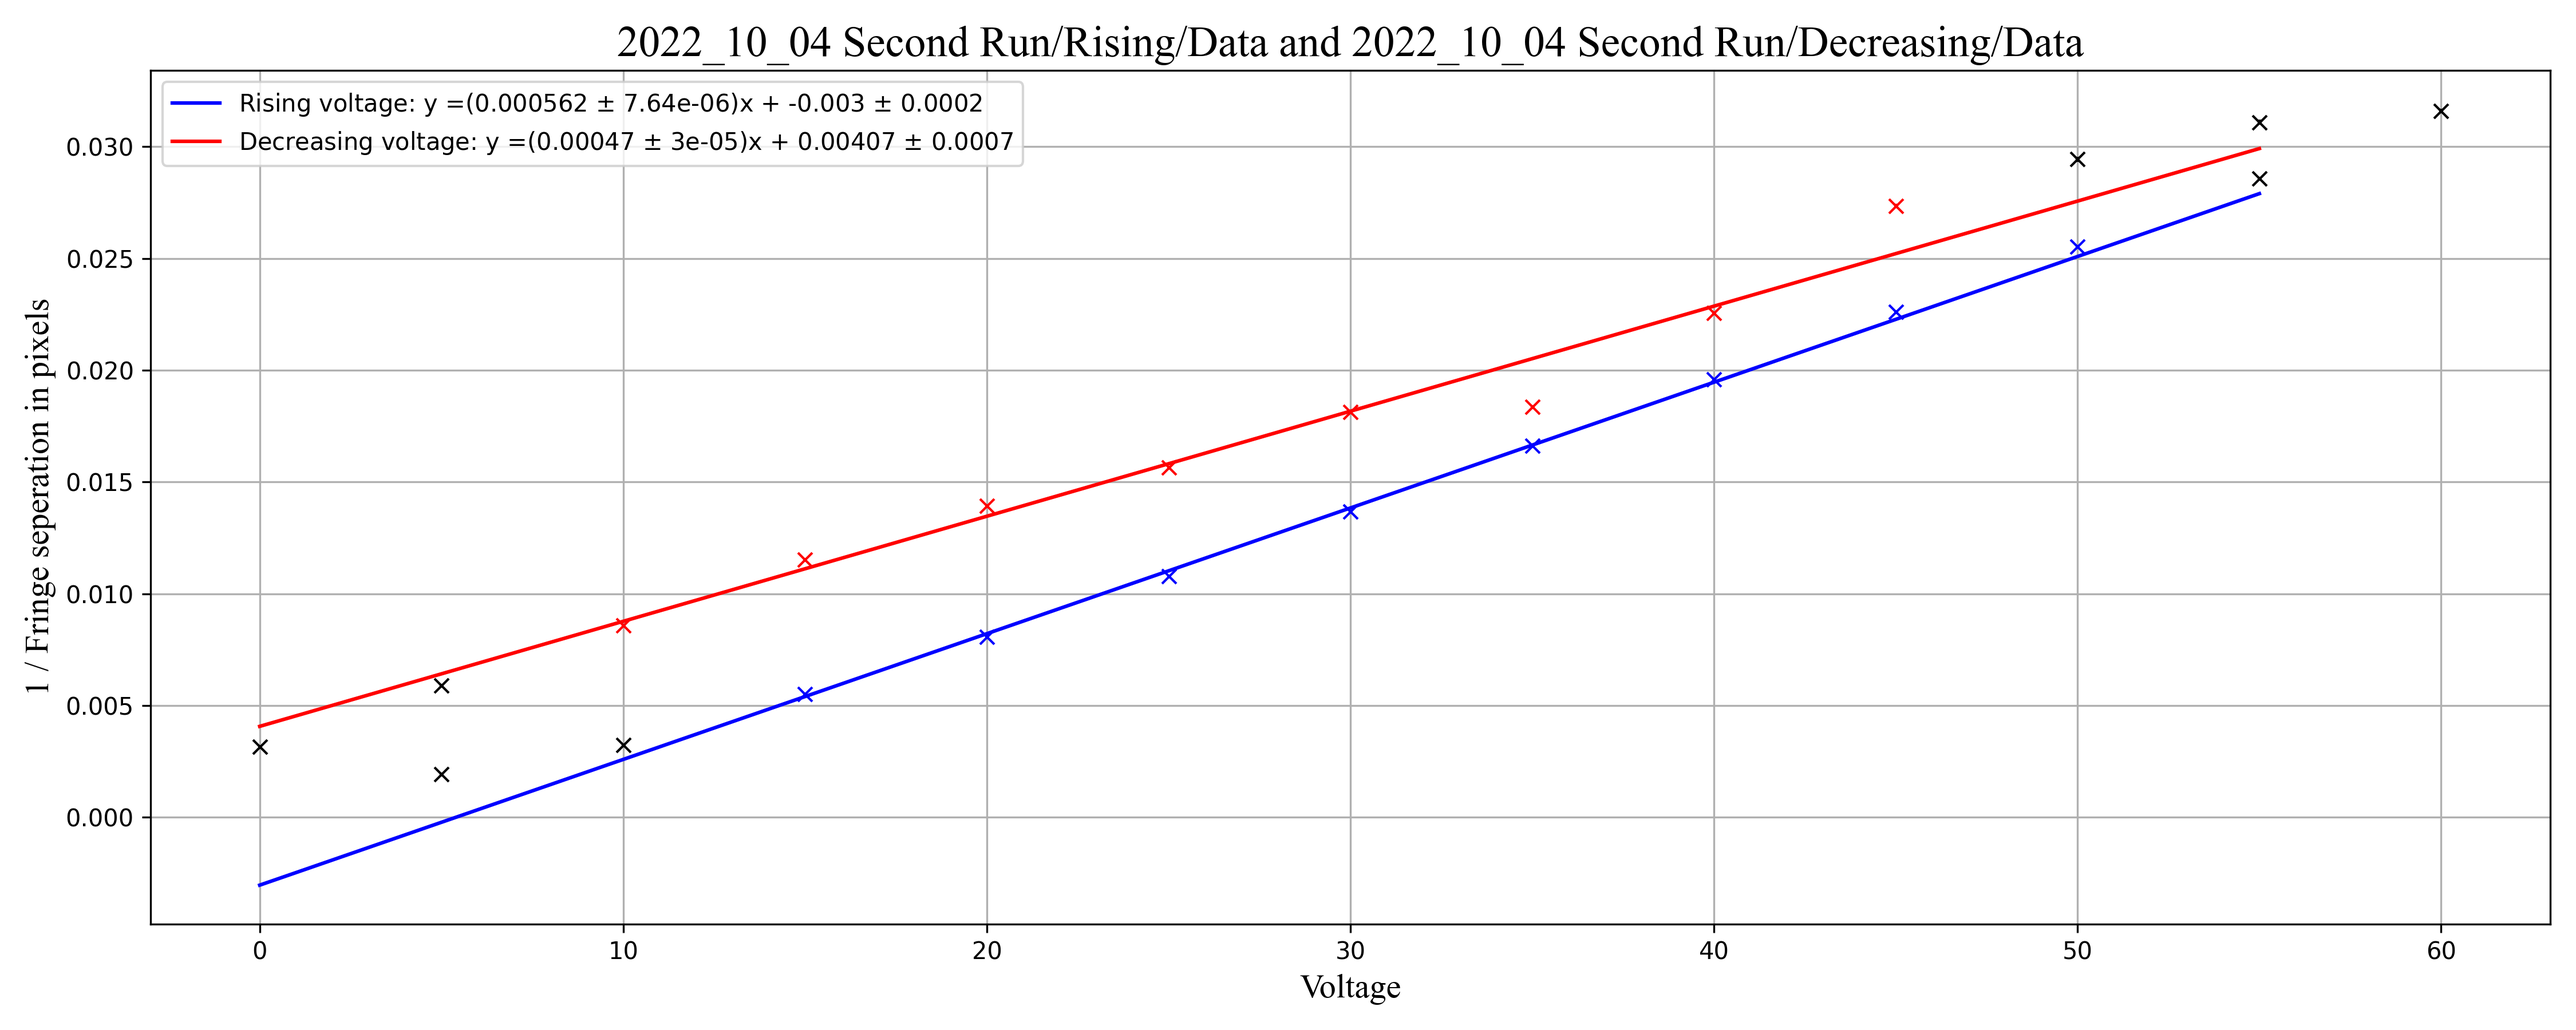
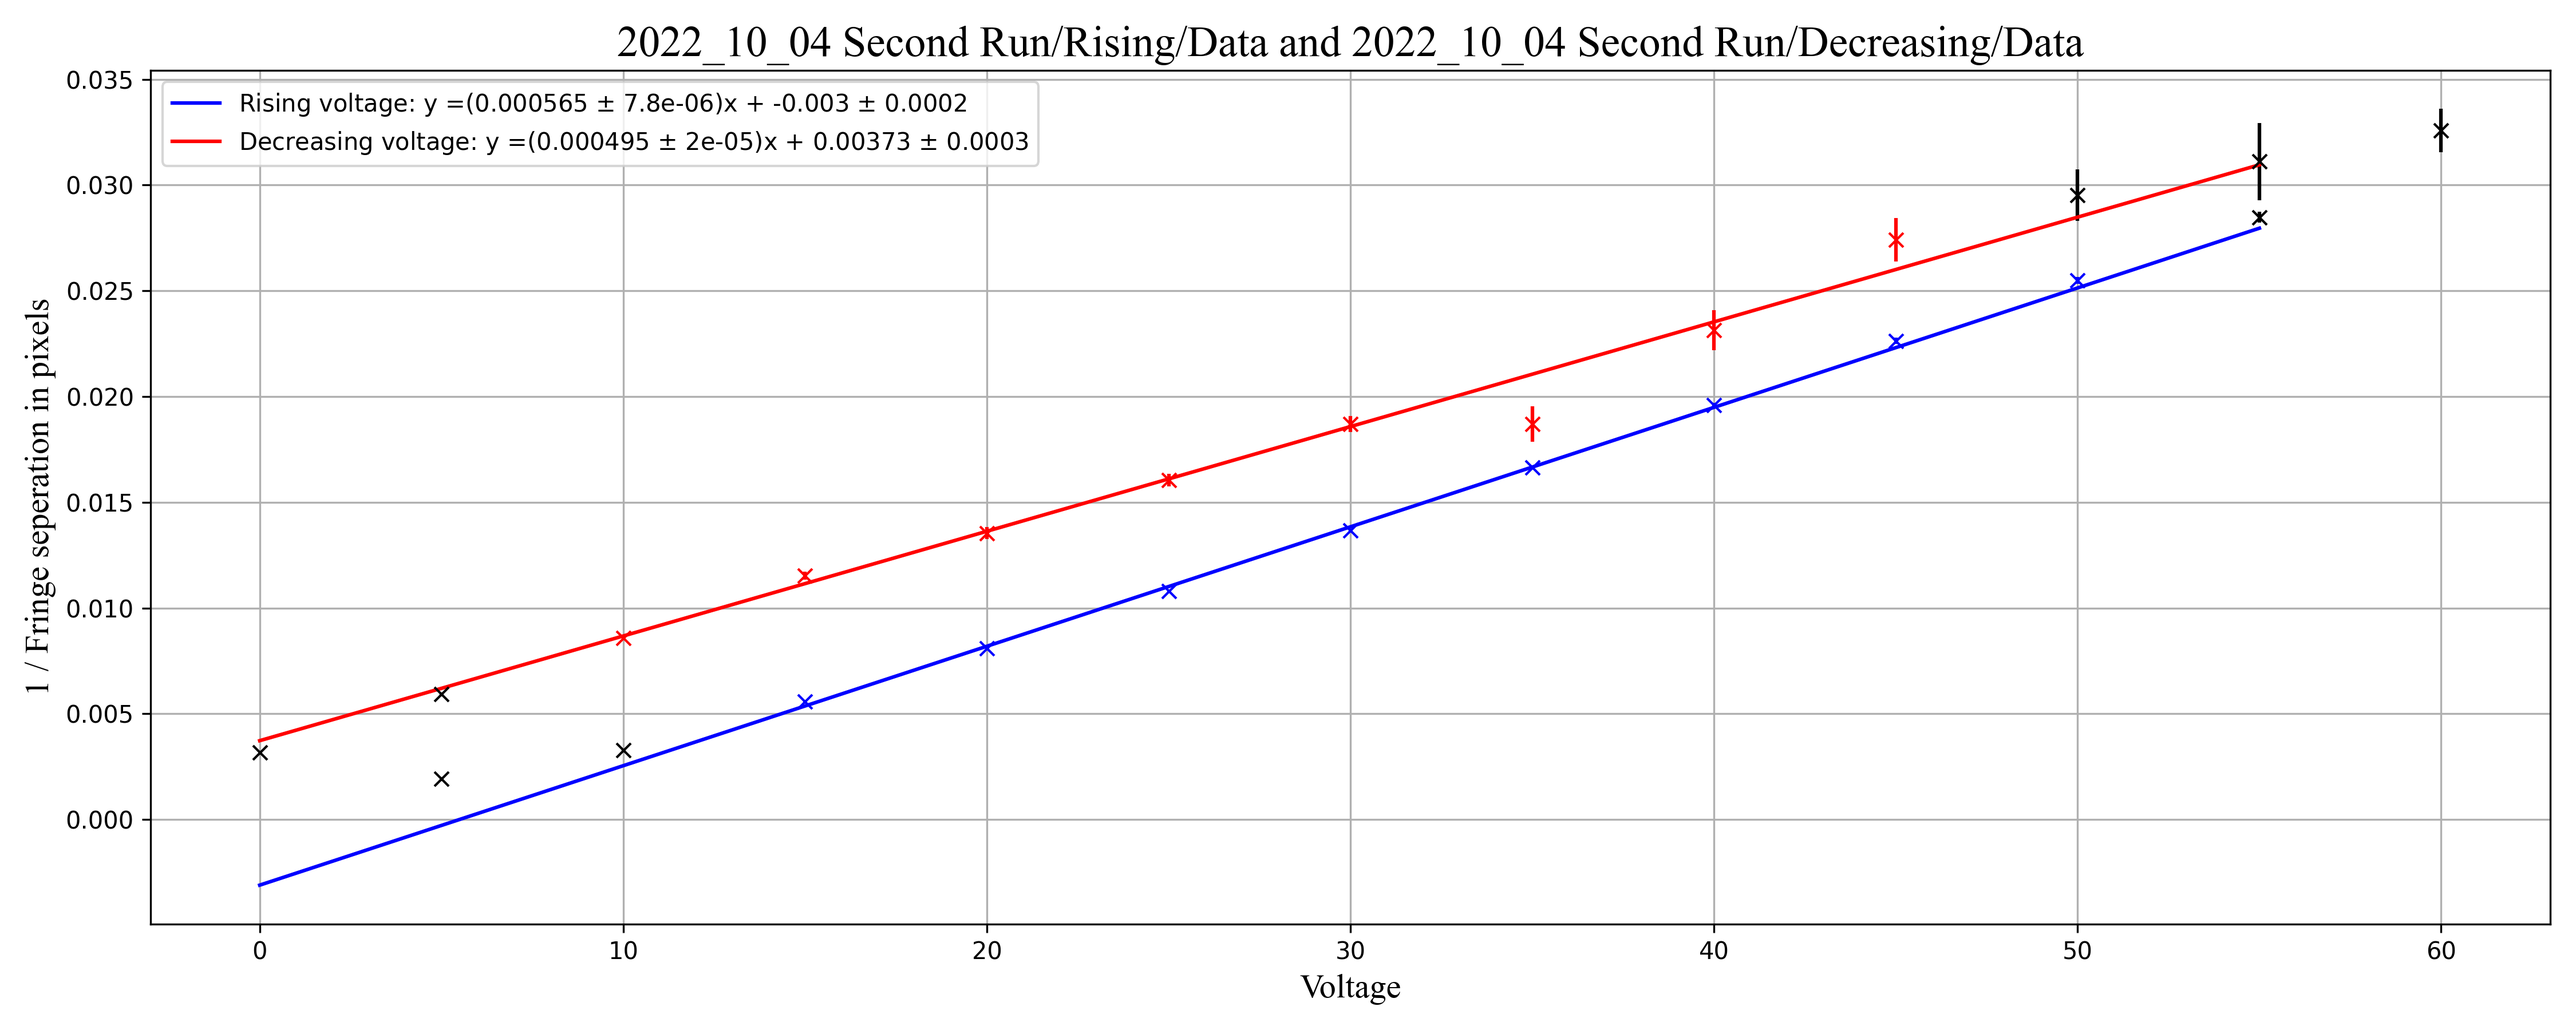
Fourth run

diff --git a/TVHolography.py b/TVHolography.py
@@ -14,11 +14,11 @@ from Functions import gaussian_peak, read_data, find_peaks,\
         filter_peaks, find_linear_parameters,\
         fit_gaussian, weighted_arithmetic_mean
 
-FILENAME_1 = "2022_10_04 Second Run/Rising/Data/"
-FILENAME_2 = "2022_10_04 Second Run/Decreasing/Data/"
-SAVE_FOLDER_1 = "2022_10_04 Second Run/Rising/Results/"
-SAVE_FOLDER_2 = "2022_10_04 Second Run/Decreasing/Results/"
-SAVE_FOLDER_AVERAGES = "2022_10_04 Second Run/Comparison/"
+FILENAME_1 = "2022_10_18 Fourth Run/Rising/Data/"
+FILENAME_2 = "2022_10_18 Fourth Run/Decreasing/Data/"
+SAVE_FOLDER_1 = "2022_10_18 Fourth Run/Rising/Results/"
+SAVE_FOLDER_2 = "2022_10_18 Fourth Run/Decreasing/Results/"
+SAVE_FOLDER_AVERAGES = "2022_10_18 Fourth Run/Comparison/"
 X_VARIABLE = "Voltage"
 Y_VARIABLE = 'Grey Value (Intensity)'
 
@@ -50,7 +50,7 @@ def draw_plot(title, data, savgol_parameter, filename,
     print(("{0}V {1} with savgol parameter of: {2}").format(title, direction,
                                                             savgol_parameter))
 
-    if len(filtered_peaks) > 3 or len(filtered_troughs) > 3:
+    if len(filtered_peaks) > 4 and len(filtered_troughs) > 4:
         fit_gaussian(filtered_peaks, filtered_data[filtered_peaks], axs)
         fit_gaussian(filtered_troughs, filtered_data[filtered_troughs], axs)
 
@@ -87,9 +87,9 @@ def draw_plot(title, data, savgol_parameter, filename,
     plt.savefig(save_folder + title, dpi=300, transparent=False)
     plt.close()
 
-    return np.array((int(title), 1 / mean_fringe_spacing,
-                    (1 / (mean_fringe_spacing ** 2))
-                    * mean_fringe_spacing_sigma))
+    return np.array((int(title), 1 / np.average(fringe_spacing),
+                    (1 / (np.average(fringe_spacing) ** 2))
+                    * np.std(fringe_spacing) * (1 / np.sqrt(len(fringe_spacing)))))
 
 
 def plot_averages(data_1, data_2, save_folder):
@@ -103,22 +103,22 @@ def plot_averages(data_1, data_2, save_folder):
                   fontsize=18, fontfamily='times new roman')
 
     # Non fitted data points
-    axs.errorbar(np.hstack((data_1[:, 0][:2], data_1[:, 0][-2:])),
-                 np.hstack((data_1[:, 1][:2], data_1[:, 1][-2:])),
-                 yerr=np.hstack((data_1[:, 2][:2], data_1[:, 2][-2:])),
+    axs.errorbar(np.hstack((data_1[:, 0][:1], data_1[:, 0][-1:])),
+                 np.hstack((data_1[:, 1][:1], data_1[:, 1][-1:])),
+                 yerr=np.hstack((data_1[:, 2][:1], data_1[:, 2][-1:])),
                  fmt='kx')
-    axs.errorbar(np.hstack((data_2[:, 0][:2], data_2[:, 0][-2:])),
-                 np.hstack((data_2[:, 1][:2], data_2[:, 1][-2:])),
-                 yerr=np.hstack((data_2[:, 2][:2], data_2[:, 2][-2:])),
+    axs.errorbar(np.hstack((data_2[:, 0][:1], data_2[:, 0][-1:])),
+                 np.hstack((data_2[:, 1][:1], data_2[:, 1][-1:])),
+                 yerr=np.hstack((data_2[:, 2][:1], data_2[:, 2][-1:])),
                  fmt='kx')
     # fitted data points [2:-2]
-    axs.errorbar(data_1[:, 0][2:-2], data_1[:, 1][2:-2],
-                 yerr=data_1[:, 2][2:-2], fmt='bx')
-    axs.errorbar(data_2[:, 0][2:-2], data_2[:, 1][2:-2],
-                 yerr=data_2[:, 2][2:-2], fmt='rx')
+    axs.errorbar(data_1[:, 0][1:-1], data_1[:, 1][1:-1],
+                 yerr=data_1[:, 2][1:-1], fmt='bx')
+    axs.errorbar(data_2[:, 0][1:-1], data_2[:, 1][1:-1],
+                 yerr=data_2[:, 2][1:-1], fmt='rx')
 
-    m_1, c_1, sigma_m_1, sigma_c_1 = find_linear_parameters(data_1[2:-2])
-    m_2, c_2, sigma_m_2, sigma_c_2 = find_linear_parameters(data_2[2:-2])
+    m_1, c_1, sigma_m_1, sigma_c_1 = find_linear_parameters(data_1[1:-1])
+    m_2, c_2, sigma_m_2, sigma_c_2 = find_linear_parameters(data_2[1:-1])
 
     plt.plot(np.linspace(0, 55), m_1*np.linspace(0, 55) + c_1, color='blue',
              label="Rising voltage: y =({0:.3g} $\pm$ {1:.3g})x"\

diff --git a/Parameters.py b/Parameters.py
@@ -29,6 +29,6 @@ SAVGOL_FILTER_PARAMETERS_2 = {"00": 501, #savgol parameters for decreasing volta
                             "65": 11,
                             "70": 11,} 
 PEAK_PROMINENCE = {
-    "Rising": 0.05,
-    "Decreasing": 0.05
+    "Rising": 0.8,
+    "Decreasing": 0.8
 }                        
